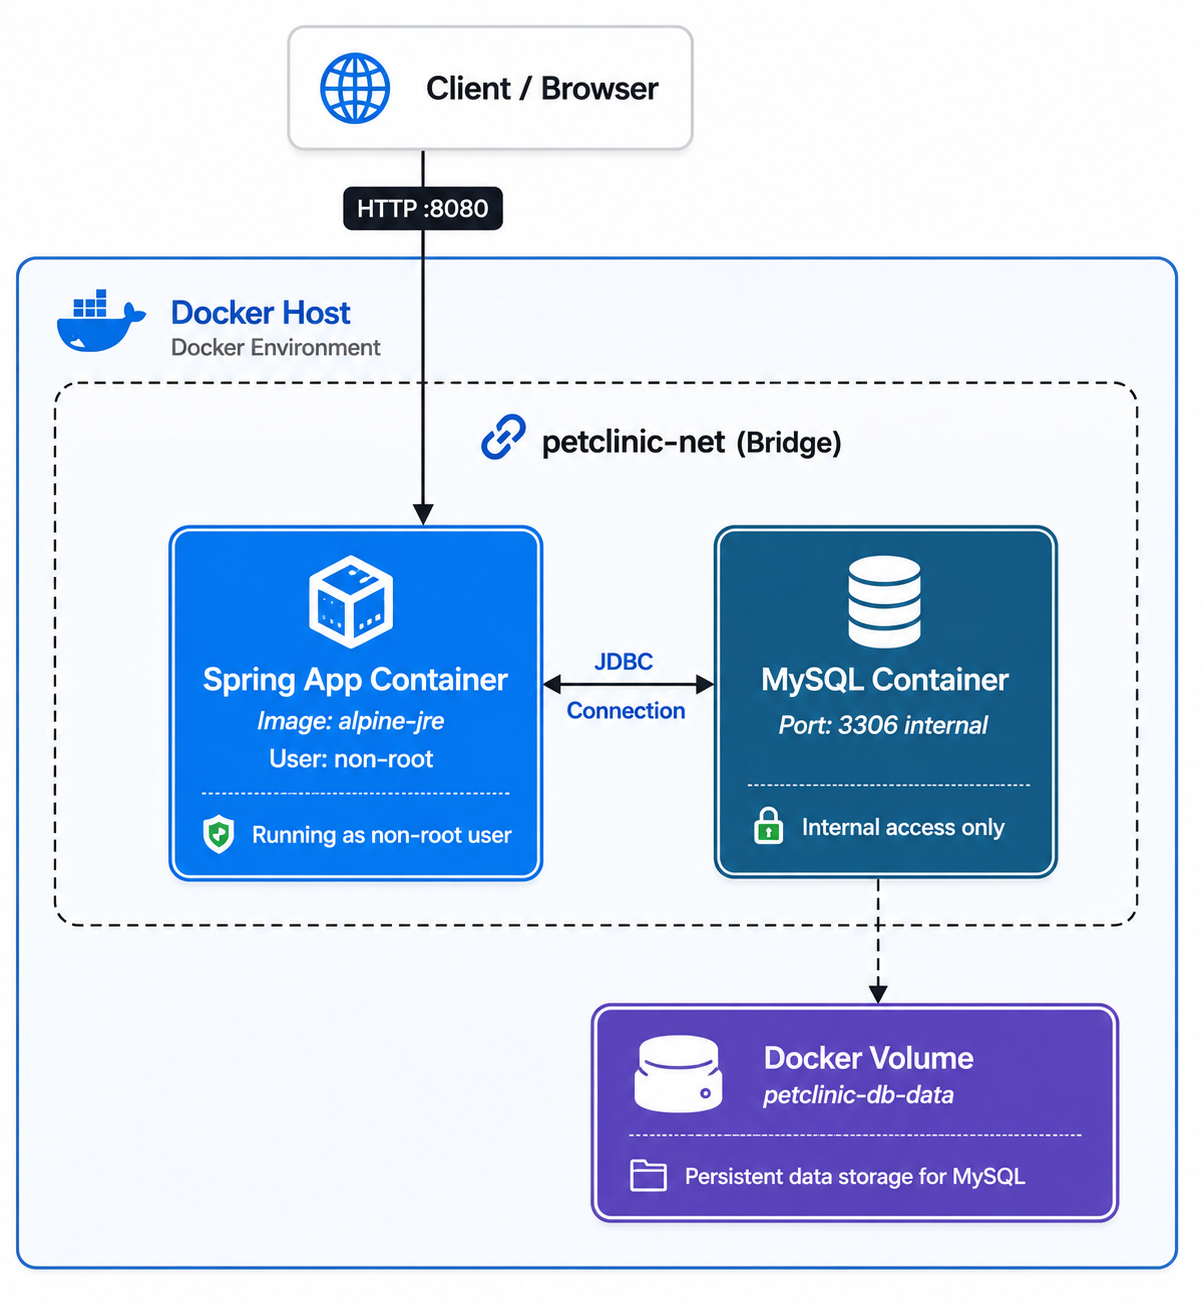
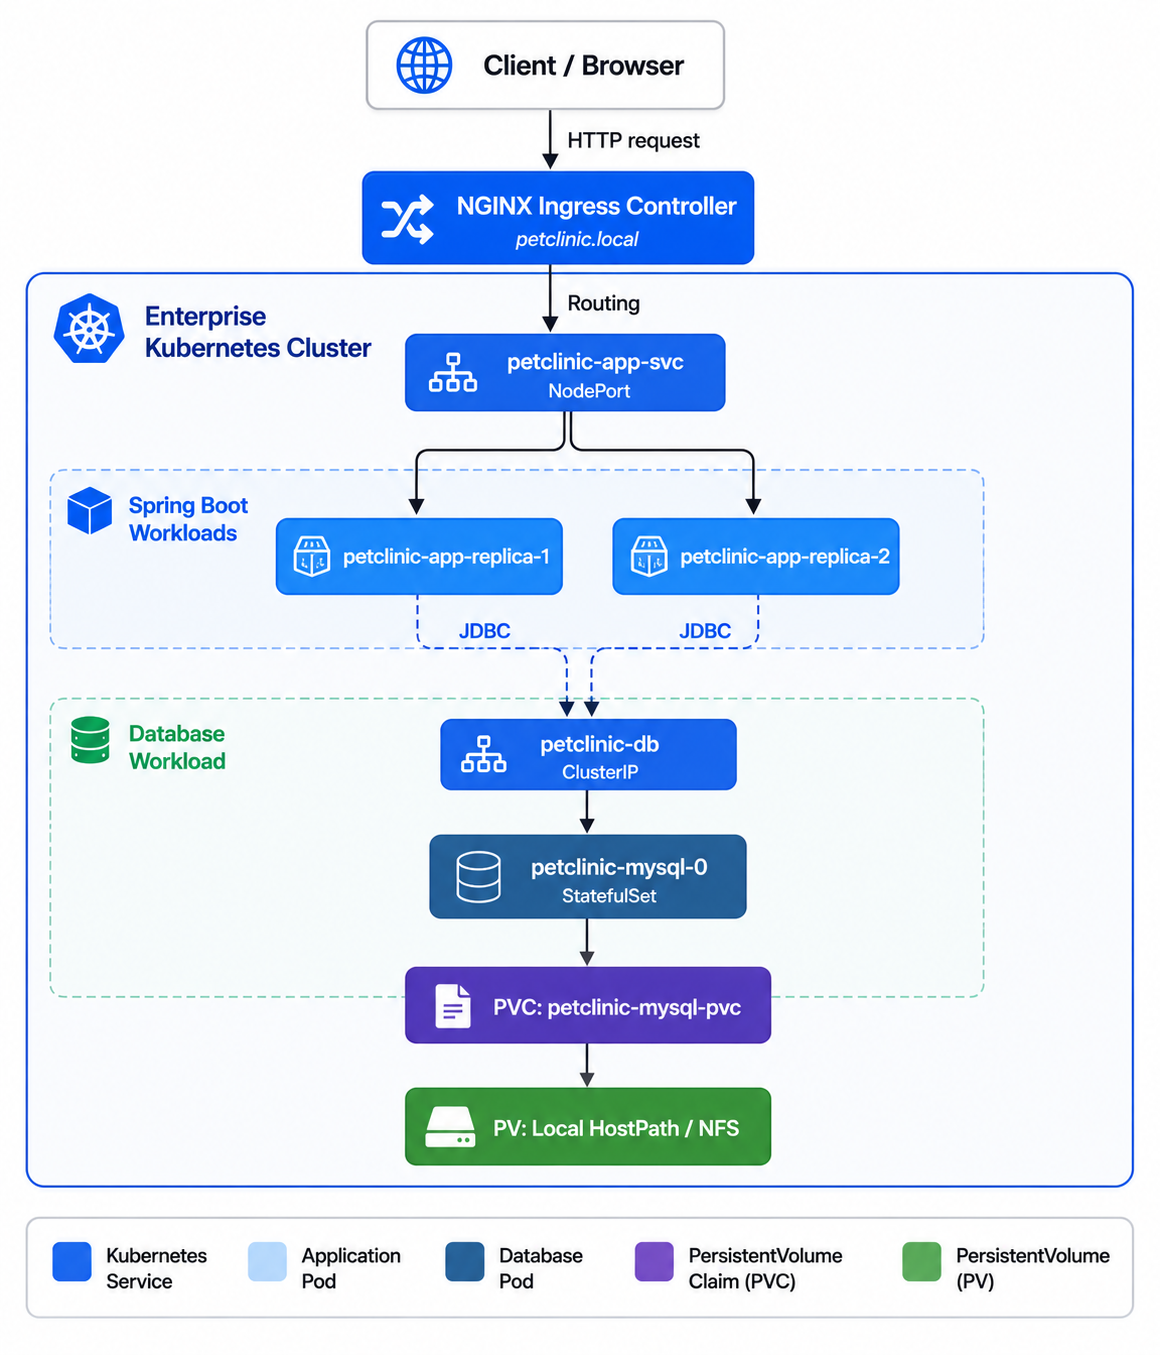
feat(k8s): deploy enterprise kubernetes architecture with ingress, network policies, and persistent storage

diff --git a/README.md b/README.md
@@ -34,18 +34,31 @@ This repository demonstrates an **Enterprise-Grade Infrastructure setup** for th
 ## 📂 4. Repository Structure
 ```text
 .
+├── deploy/                     # Infrastructure deployment manifests
+│   └── k8s/                    # Kubernetes configuration files
+│       ├── 01-mysql-storage.yaml    # PV & PVC configurations
+│       ├── 02-mysql.yaml            # StatefulSet & ClusterIP Service
+│       ├── 03-app.yaml              # Deployment & NodePort Service
+│       ├── 04-network-policy.yaml   # Zero-Trust Database Isolation
+│       └── 05-ingress.yaml          # NGINX Ingress Controller setup
+├── docs/                       # Project documentation assets
+│   └── images/                 # Execution screenshots and diagrams
+│       ├── 2a-compute-resources.png
+│       ├── 2b-storage-resources.png
+│       ├── 4-ingress-routing.png
+│       ├── app-running.png
+│       ├── app-running-k8s.png
+│       ├── build-process.png
+│       ├── containers-healthy.png
+│       ├── data-persistence.png
+│       ├── docker push.png
+│       ├── dockerhub-images.png
+│       └── project-diagram.png
+├── src/                        # Original Spring Petclinic Source Code
 ├── Dockerfile                  # Multi-stage, secure container definition
 ├── docker-compose.yml          # Local orchestration & DB integration
-├── .dockerignore               # Context size optimization
-├── docs/                       # Project documentation assets
-│   └── images/                 # Execution screenshots and architecture diagrams
-│       ├── build-process.png
-│       ├── project-diagram.png
-│       ├── containers-healthy.png
-│       ├── app-running.png
-│       └── data-persistence.png
-├── src/                        # Original Spring Petclinic Source Code
-└── pom.xml                     # Maven build configuration
+├── pom.xml                     # Maven build configuration
+└── .dockerignore               # Context size optimization
 
 ## 📋 5. Prerequisites
 * [Docker Engine](https://docs.docker.com/engine/install/) (v20.10+)
@@ -53,18 +66,18 @@ This repository demonstrates an **Enterprise-Grade Infrastructure setup** for th
 * Git
 
 
-## ⚙ 6. Step-by-Step Execution Guide
+## 🐳 6. Local Execution Guide (Docker Compose)
+*Use this method for local development and testing.*
 
 **1. Clone the repository:**
 ```bash
 git clone [https://github.com/YOUR_GITHUB_USERNAME/spring-petclinic.git](https://github.com/YOUR_GITHUB_USERNAME/spring-petclinic.git)
 cd spring-petclinic
-
+```
 2. Build and run the infrastructure:
 ```bash
 docker-compose up -d --build
 ```
-Build Process Preview:
 
 3. Verify deployment health:
 ```bash
@@ -75,9 +88,41 @@ Ensure both containers petclinic-web and petclinic-mysql show a (healthy) status
 4. Access the application:
 Open your browser and navigate to: http://localhost:8080
 
-## 🚀 7. Implementation Stages & Verification
+☸ 7. Enterprise Deployment Guide (Kubernetes)
+Use this method to deploy the highly available, production-ready cluster.
 
-### Stage 1: Multi-Stage Image Build & Optimization
+1. Apply the storage configurations (PV & PVC):
+```bash
+kubectl apply -f deploy/k8s/01-mysql-storage.yaml
+```
+2. Deploy the database and application workloads:
+```bash
+kubectl apply -f deploy/k8s/02-mysql.yaml
+kubectl apply -f deploy/k8s/03-app.yaml
+```
+3. Apply Network Policies and Ingress routing:
+```bash
+kubectl apply -f deploy/k8s/04-network-policy.yaml
+kubectl apply -f deploy/k8s/05-ingress.yaml
+```
+4. Configure local DNS resolution:
+Add the following line to your /etc/hosts file (Linux/Mac) or C:\Windows\System32\drivers\etc\hosts (Windows) to resolve the custom Ingress domain:
+# Replace the IP with your actual Kubernetes Node IP
+192.168.92.129  petclinic.local
+5. Verify cluster health:
+```bash
+kubectl get pods,svc,ingress
+```
+Ensure all pods are Running and the Ingress controller has successfully mapped the host.
+
+6. Access the application:
+Open your browser and navigate to the assigned Ingress NodePort: http://petclinic.local:31359
+
+## 🚀 8. Implementation Stages & Verification
+
+### 🐳 Part A: Docker Containerization Phase
+
+#### Stage 1: Multi-Stage Image Build & Optimization
 Constructed the customized Spring Boot application image using an optimized multi-stage Dockerfile, significantly reducing the image footprint and securing the build process.
 <p align="center">
   <img src="docs/images/build-process.png" width="90%">
@@ -85,7 +130,7 @@ Constructed the customized Spring Boot application image using an optimized mult
   <em><b>Figure 1:</b> Docker Compose build process showcasing layered caching and stage separation.</em>
 </p>
 
-### Stage 2: Local Orchestration & Container Health
+#### Stage 2: Local Orchestration & Container Health
 Deployed the Spring Boot application and MySQL database using Docker Compose, implementing strict healthchecks to ensure correct startup sequencing and stable runtime.
 <p align="center">
   <img src="docs/images/containers-healthy.png" width="90%">
@@ -93,7 +138,7 @@ Deployed the Spring Boot application and MySQL database using Docker Compose, im
   <em><b>Figure 2:</b> Containers operating in an isolated network, both reaching a stable <code>(healthy)</code> state.</em>
 </p>
 
-### Stage 3: Application Routing Verification
+#### Stage 3: Application Routing Verification
 Validated the successful exposure of the Spring Petclinic web interface on the designated host port, seamlessly communicating with the internal database network.
 <p align="center">
   <img src="docs/images/app-running.png" width="90%">
@@ -101,7 +146,7 @@ Validated the successful exposure of the Spring Petclinic web interface on the d
   <em><b>Figure 3:</b> The Spring Petclinic application successfully running and accessible via localhost.</em>
 </p>
 
-### Stage 4: Stateful Data Persistence
+#### Stage 4: Stateful Data Persistence
 Verified that the Docker Volumes successfully retained critical application data (e.g., newly added pet owners) across complete container teardowns and restarts.
 <p align="center">
   <img src="docs/images/data-persistence.png" width="90%">
@@ -109,21 +154,58 @@ Verified that the Docker Volumes successfully retained critical application data
   <em><b>Figure 4:</b> Persistent data successfully retrieved from the MySQL volume after a simulated environment restart.</em>
 </p>
 
-## ⚠ 8. Challenges Encountered & Solutions
-* **Challenge:** Large image size and slow build times due to Maven dependencies and JDK inclusion.
-  * **Solution:** Implemented **Multi-Stage Builds**. Stage 1 leverages Docker layer caching to download dependencies only once, while Stage 2 uses a minimal `jre-alpine` image, reducing the final footprint drastically.
-* **Challenge:** Application container crashing on startup because the MySQL database wasn't fully initialized.
-  * **Solution:** Configured comprehensive **Healthchecks** on the MySQL container and utilized `depends_on: condition: service_healthy` in Docker Compose to ensure a zero-crash, sequenced startup.
-* **Challenge:** Security risks associated with running containers as root.
-  * **Solution:** Created a dedicated `petclinic` user and group within the Alpine image to ensure the application runs with least-privilege permissions.
+---
 
-## 🔭 9. Future Enhancements
-- [ ] Migrate orchestration to **Kubernetes** using custom Helm Charts.
-- [ ] Implement Infrastructure as Code (IaC) provisioning with **Terraform / Ansible**.
-- [ ] Integrate full observability stack (**Prometheus, Grafana, ELK Stack**).
-- [ ] Establish automated CI/CD pipelines via GitHub Actions.
+### ☸ Part B: Kubernetes Enterprise Deployment Phase
 
-## 📬 10. Contact & Connect
+#### Stage 1: Private Registry (DockerHub) Integration
+Pushed the customized container images to a secure DockerHub repository to be pulled securely by the cluster.
+<p align="center">
+  <img src="docs/images/dockerhub-images.png" width="90%">
+  <br>
+  <em><b>Figure 3:</b> DockerHub repository securely storing the application and database images.</em>
+</p>
+
+#### Stage 2: Compute Resources Deployment
+Deployed the Spring application via Deployments (High Availability with 2 Replicas) and the MySQL database via StatefulSets.
+<p align="center">
+  <img src="docs/images/2a-compute-resources_2.png" width="90%">
+  <br>
+  <em><b>Figure 4:</b> Pods, Deployments, and StatefulSets in a stable `Running` state without restart loops.</em>
+</p>
+
+#### Stage 3: Dynamic Storage Provisioning
+Verified that the Persistent Volume Claims (PVCs) for the database successfully bound to the provisioned Persistent Volumes (PVs).
+<p align="center">
+  <img src="docs/images/2b-storage-resources.png" width="90%">
+  <br>
+  <em><b>Figure 5:</b> PVCs and PVs successfully Bound to isolated host directories.</em>
+</p>
+
+#### Stage 4: Network Isolation & Routing Setup
+Validated the creation of internal Services, applied strict Network Policies for database isolation, and configured the NGINX Ingress controller for domain routing.
+<p align="center">
+  <img src="docs/images/4-ingress-routing.png" width="90%">
+  <br>
+  <em><b>Figure 6:</b> Application successfully accessed via NGINX Ingress routing using a custom local domain.</em>
+</p>
+
+## ⚠ 9. Challenges Encountered & Solutions
+* **Challenge:** Large image size and slow build times during initial containerization.
+  * **Solution:** Implemented **Multi-Stage Builds** using Alpine Linux, leveraging layer caching to download dependencies only once and reducing the final footprint drastically.
+* **Challenge:** Guaranteeing database data persistence across ephemeral Kubernetes Pod restarts.
+  * **Solution:** Transitioned from Deployments to **StatefulSets** for the MySQL database and implemented **Persistent Volumes (PV) & PVCs** mapped to isolated host directories.
+* **Challenge:** Securely routing external traffic to the application while completely isolating the database from public access.
+  * **Solution:** Utilized an **NGINX Ingress Controller** for clean domain-based routing (`petclinic.local`) and applied strict **Zero-Trust Network Policies** that restrict database access exclusively to the application pods.
+
+## 🔭 10. Future Enhancements
+- [x] Migrate local orchestration to an **Enterprise Kubernetes Cluster**.
+- [ ] Package Kubernetes manifests using **Helm Charts** for dynamic and template-based deployments.
+- [ ] Implement Infrastructure as Code (IaC) provisioning pipelines with **Terraform & Ansible**.
+- [ ] Integrate a full observability and telemetry stack (**Prometheus, Grafana, ELK Stack**).
+- [ ] Establish automated CI/CD pipelines via **GitHub Actions**.
+
+## 📬 11. Contact & Connect
 
 <div align="center">
   <h3>🏗 Architected & Deployed by</h3>
